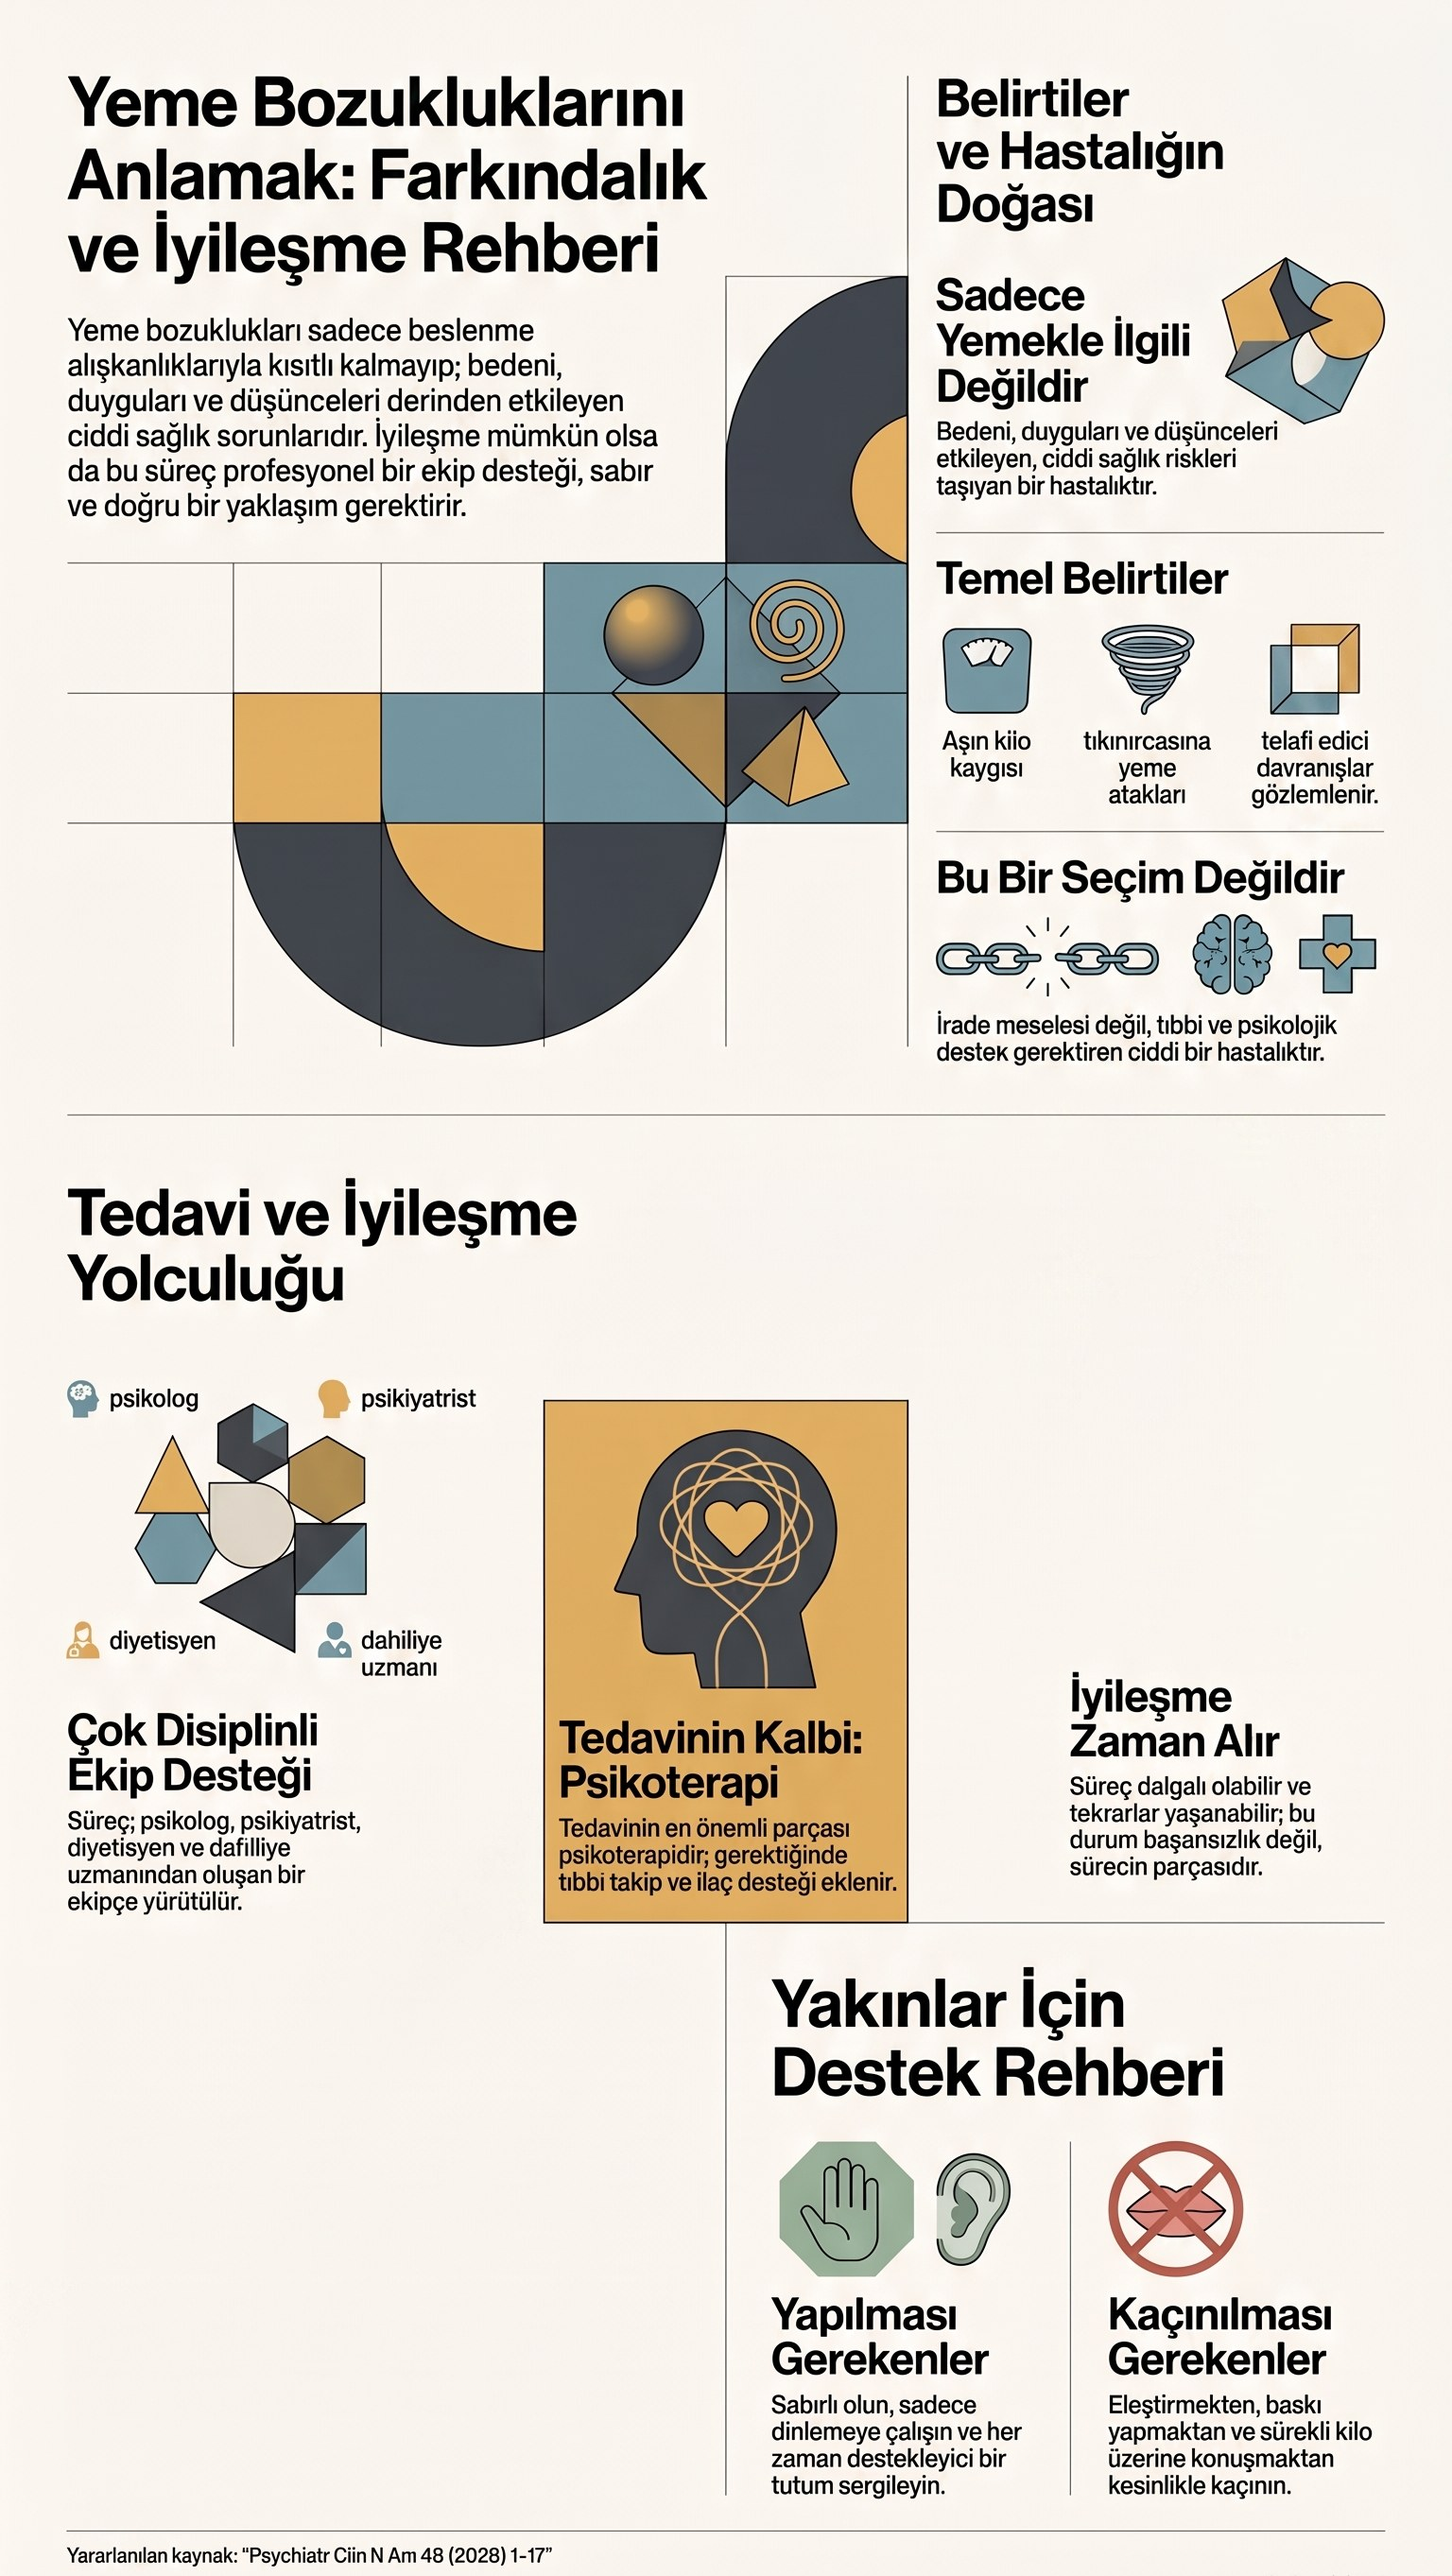
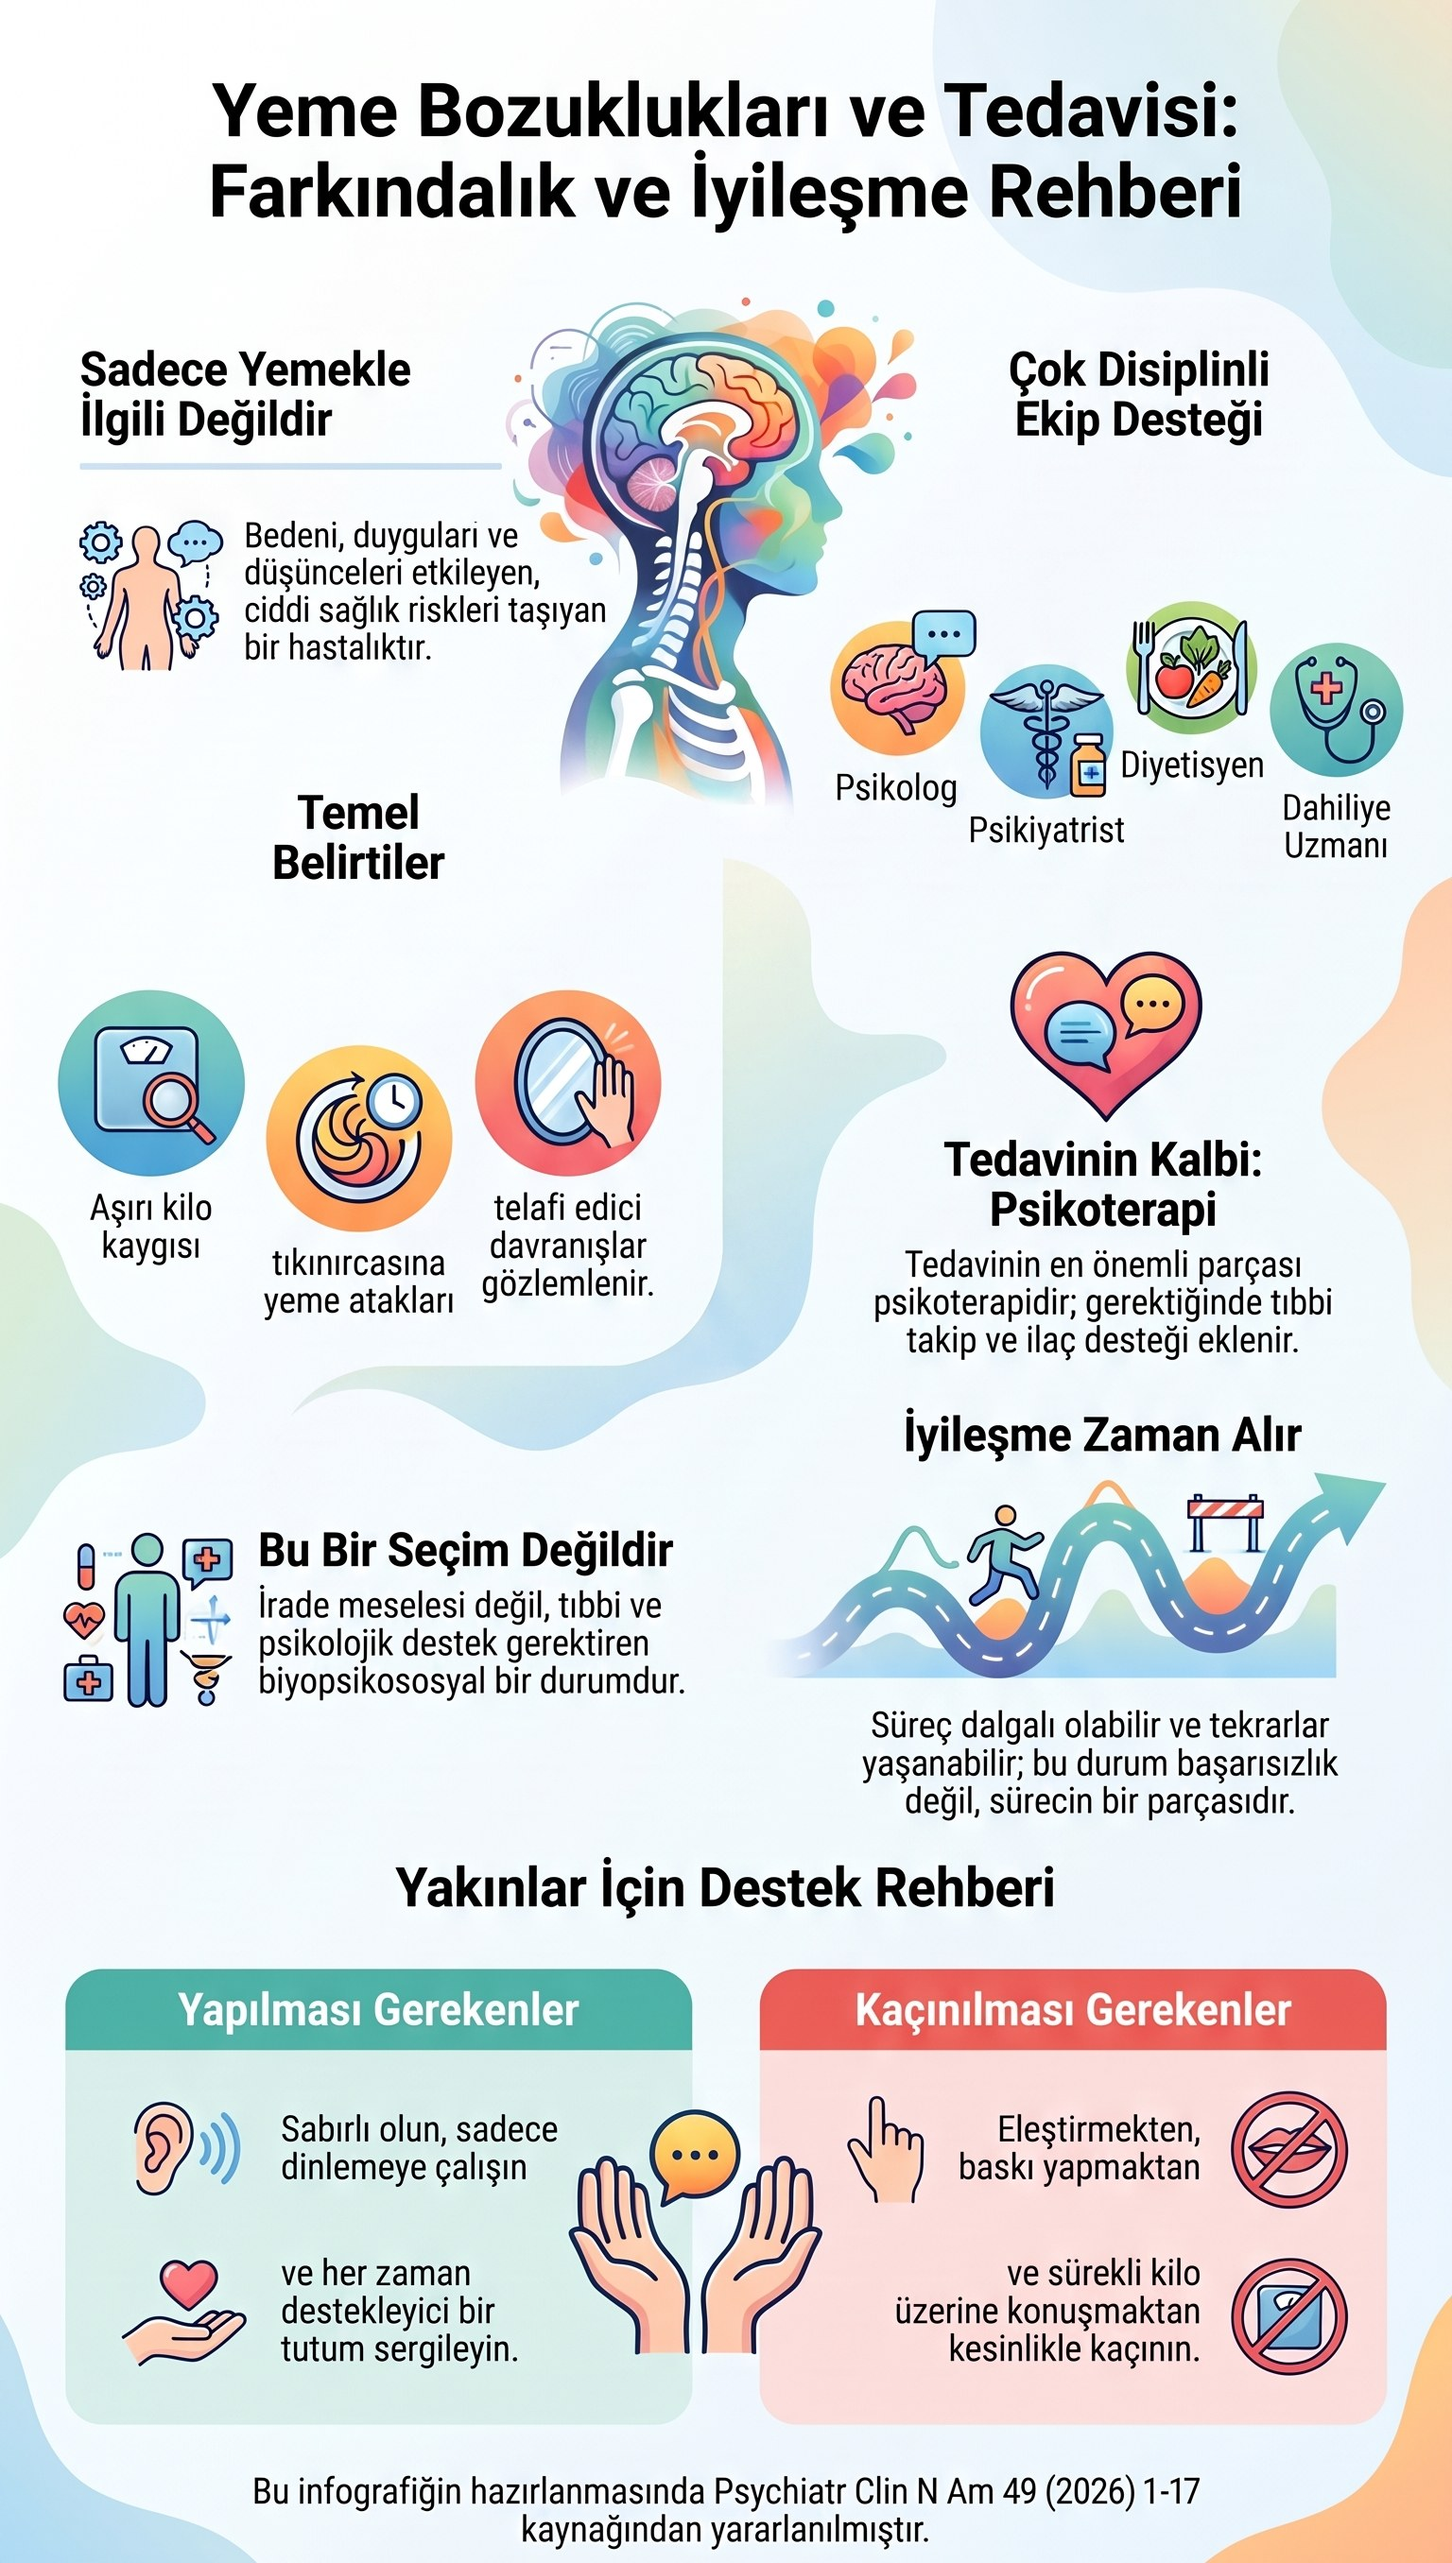
Yeme bozukluklari infografigi duzeltilmis surumle degistirildi

diff --git a/yazilar/yeme-bozukluklari.html b/yazilar/yeme-bozukluklari.html
@@ -97,8 +97,8 @@
 
   <figure class="figure">
     <img src="../gorseller/yeme-bozukluklari.jpg"
-         alt="Yeme bozuklukları infografiği: yeme bozukluklarının yalnızca beslenme alışkanlıklarıyla sınırlı olmadığı, bedeni, duyguları ve düşünceleri etkileyen ciddi bir hastalık olduğu; bunun bir irade meselesi ya da seçim olmadığı; tedavinin psikolog, psikiyatrist, diyetisyen ve dahiliye uzmanından oluşan çok disiplinli bir ekiple yürütüldüğü ve merkezinde psikoterapinin yer aldığı, gerektiğinde tıbbi takip ve ilaç desteğinin eklendiği; iyileşmenin zaman aldığı ve dalgalanmaların başarısızlık değil sürecin parçası olduğu; yakınlar için sabırlı ve dinleyici bir tutumun önerildiği, eleştiri, baskı ve kilo üzerine konuşmaktan kaçınılması gerektiği."
-         loading="lazy" width="1536" height="2705">
+         alt="Yeme bozuklukları infografiği: yeme bozukluklarının yalnızca beslenme alışkanlıklarıyla sınırlı olmadığı, bedeni, duyguları ve düşünceleri etkileyen ciddi bir hastalık olduğu; bunun bir irade meselesi ya da seçim değil, tıbbi ve psikolojik destek gerektiren biyopsikososyal bir durum olduğu; tedavinin psikolog, psikiyatrist, diyetisyen ve dahiliye uzmanından oluşan çok disiplinli bir ekiple yürütüldüğü ve merkezinde psikoterapinin yer aldığı, gerektiğinde tıbbi takip ve ilaç desteğinin eklendiği; iyileşmenin zaman aldığı ve dalgalanmaların başarısızlık değil sürecin parçası olduğu; yakınlar için sabırlı ve dinleyici bir tutumun önerildiği, eleştiri, baskı ve kilo üzerine konuşmaktan kaçınılması gerektiği."
+         loading="lazy" width="1536" height="2712">
   </figure>
   <p class="figure-note">Görseli büyütmek için <a href="../gorseller/yeme-bozukluklari.jpg" target="_blank" rel="noopener">tam boyutta açabilirsiniz</a>.</p>
 
